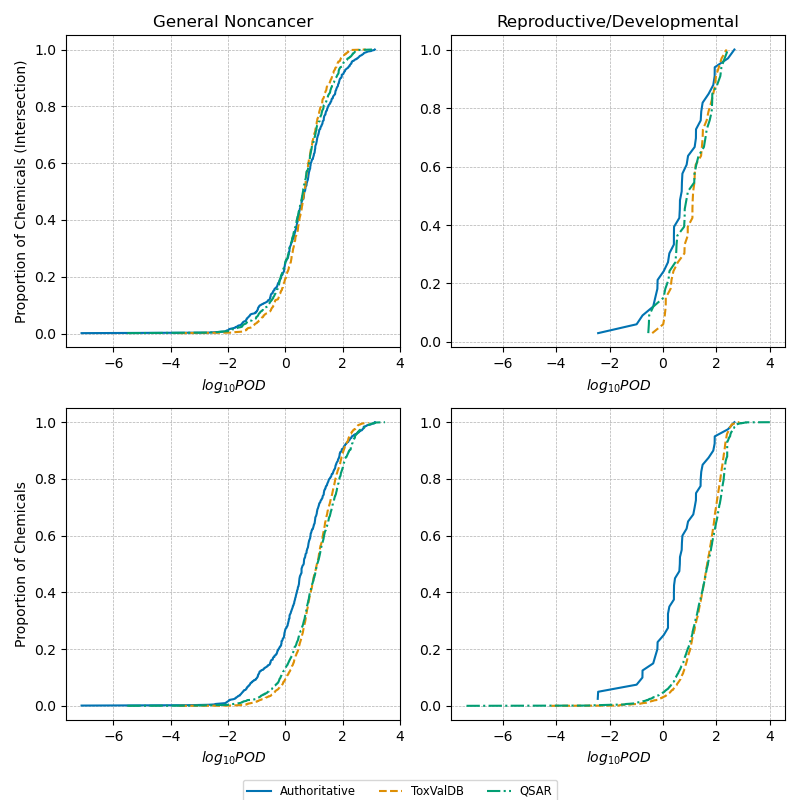
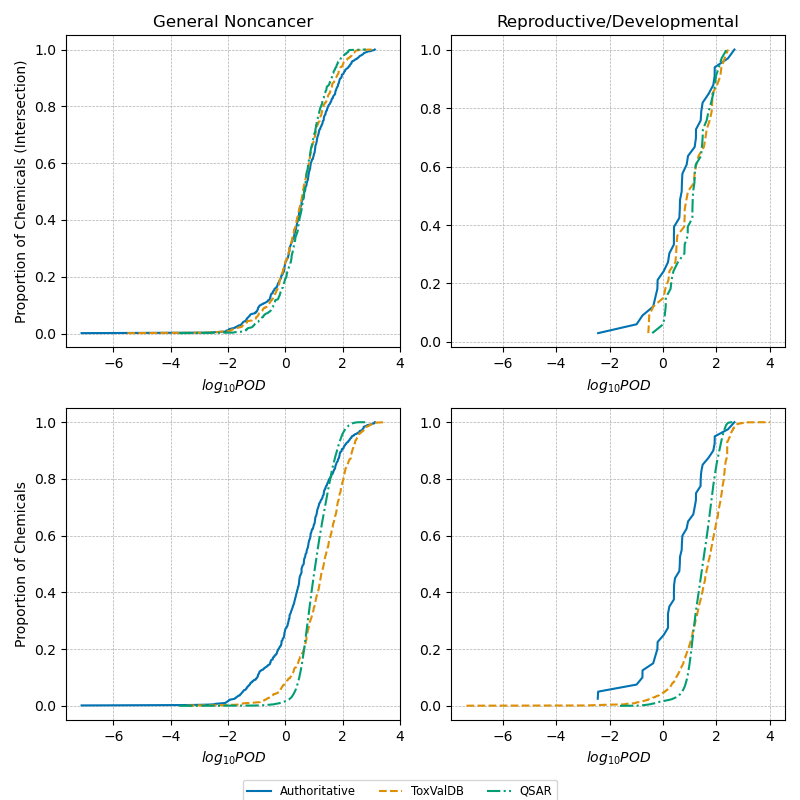
Refactor cumulative_pod_distributions: Plot distinct data

diff --git a/plotting/pod.py b/plotting/pod.py
@@ -60,9 +60,6 @@ def cumulative_pod_distributions(results_analyzer, plot_settings):
         for i, model_key in enumerate(model_keys):
 
             y_for_label = results_analyzer.get_pod_comparison_data(model_key)
-
-            # Compute intersection of samples
-            common_samples = get_common_samples(y_for_label)
             
             # Plot CDFs for intersection of samples in the first row
             plot_intersection_cdfs(
@@ -71,12 +68,11 @@ def cumulative_pod_distributions(results_analyzer, plot_settings):
                 results_analyzer, 
                 colors, 
                 linestyles, 
-                common_samples, 
                 global_xlim
             )
 
-            # Plot CDFs as in original in the second row
-            plot_original_cdfs(
+            # Plot CDF for each distinct dataset in the second row
+            plot_distinct_cdfs(
                 axs[1, i], 
                 y_for_label, 
                 results_analyzer, 
@@ -137,7 +133,7 @@ def single_model_cdfs(
 
     colors, linestyles = get_plot_styles()
 
-    plot_original_cdfs(
+    plot_distinct_cdfs(
         ax, 
         y_for_label, 
         results_analyzer, 
@@ -168,7 +164,6 @@ def plot_intersection_cdfs(
         results_analyzer, 
         colors, 
         linestyles, 
-        common_samples, 
         global_xlim=None
         ):
     '''
@@ -189,8 +184,6 @@ def plot_intersection_cdfs(
         A list of colors to be used for plotting the CDFs.
     linestyles : list
         A list of linestyles to be used for plotting the CDFs.
-    common_samples : Series
-        A pandas Series containing the common samples across models.
     global_xlim : list, optional
         A list containing the global x-axis limits. If None, limits are 
         determined automatically.
@@ -200,6 +193,10 @@ def plot_intersection_cdfs(
     None
     '''
     line_cycle = itertools.cycle(linestyles)
+
+    common_samples = list(
+        set.intersection(*[set(y.index) for y in y_for_label.values()])
+        )
 
     for j, (label, data_series) in enumerate(y_for_label.items()):
         plot_cdf(
@@ -213,8 +210,8 @@ def plot_intersection_cdfs(
         )
 #endregion
 
-#region: plot_original_cdfs
-def plot_original_cdfs(
+#region: plot_distinct_cdfs
+def plot_distinct_cdfs(
         ax, 
         y_for_label, 
         results_analyzer, 
@@ -250,12 +247,23 @@ def plot_original_cdfs(
     '''
     line_cycle = itertools.cycle(linestyles)
 
-    for j, (label, data_series) in enumerate(y_for_label.items()):
+    datasets = ['Authoritative', 'ToxValDB', 'QSAR']
+
+    for i, label in enumerate(datasets):
+        distinct_series = y_for_label[label]
+        
+        # Drop samples that are in previously plotted datasets
+        for previous_label in datasets[:i]:
+            distinct_series = distinct_series.drop(
+                y_for_label[previous_label].index,
+                errors='ignore'
+            )
+
         plot_cdf(
             ax, 
-            data_series, 
+            distinct_series, 
             results_analyzer,
-            colors[j], 
+            colors[i], 
             next(line_cycle), 
             label, 
             global_xlim
@@ -415,31 +423,6 @@ def set_ax_properties(
         ax.set_title(title)
     if ylabel:
         ax.set_ylabel(ylabel)
-#endregion
-
-#region: get_common_samples
-def get_common_samples(y_for_label):
-    '''
-    Identify and return the common samples across multiple data series.
-
-    Parameters
-    ----------
-    y_for_label : dict
-        A dictionary containing different data series, each with its own set 
-        of samples.
-
-    Returns
-    -------
-    common_samples : Index
-        A pandas Index object containing the common samples present in all 
-        provided data series.
-    '''
-    common_samples = (
-        y_for_label['Authoritative'].index
-        .intersection(y_for_label['ToxValDB'].index)
-        .intersection(y_for_label['QSAR'].index)
-    )
-    return common_samples
 #endregion
 
 #region: get_plot_styles

diff --git a/results_analysis.py b/results_analysis.py
@@ -528,16 +528,21 @@ class ResultsAnalyzer:
         --------
         plot.cumulative_pod_distributions()
         '''        
-        y_auth_df = self.load_authoritative_pods()
         model_key_names = self.read_model_key_names()
         key_for = dict(zip(model_key_names, model_key))
-        effect = key_for['target_effect']
-        results = self.get_in_sample_prediction(model_key)
+        
+        y_auth = (
+            self.load_authoritative_pods()
+            [key_for['target_effect']]
+            .dropna()
+        )
+        _, y_true = self.data_manager.load_features_and_target(**key_for)
+        y_pred, _ = self.predict(model_key)
         
         y_for_label = {
-            'Authoritative': y_auth_df[effect].dropna(),
-            'ToxValDB': results[0],
-            'QSAR': results[-1]
+            'Authoritative': y_auth,
+            'ToxValDB': y_true,
+            'QSAR': y_pred
         }
         
         return y_for_label
